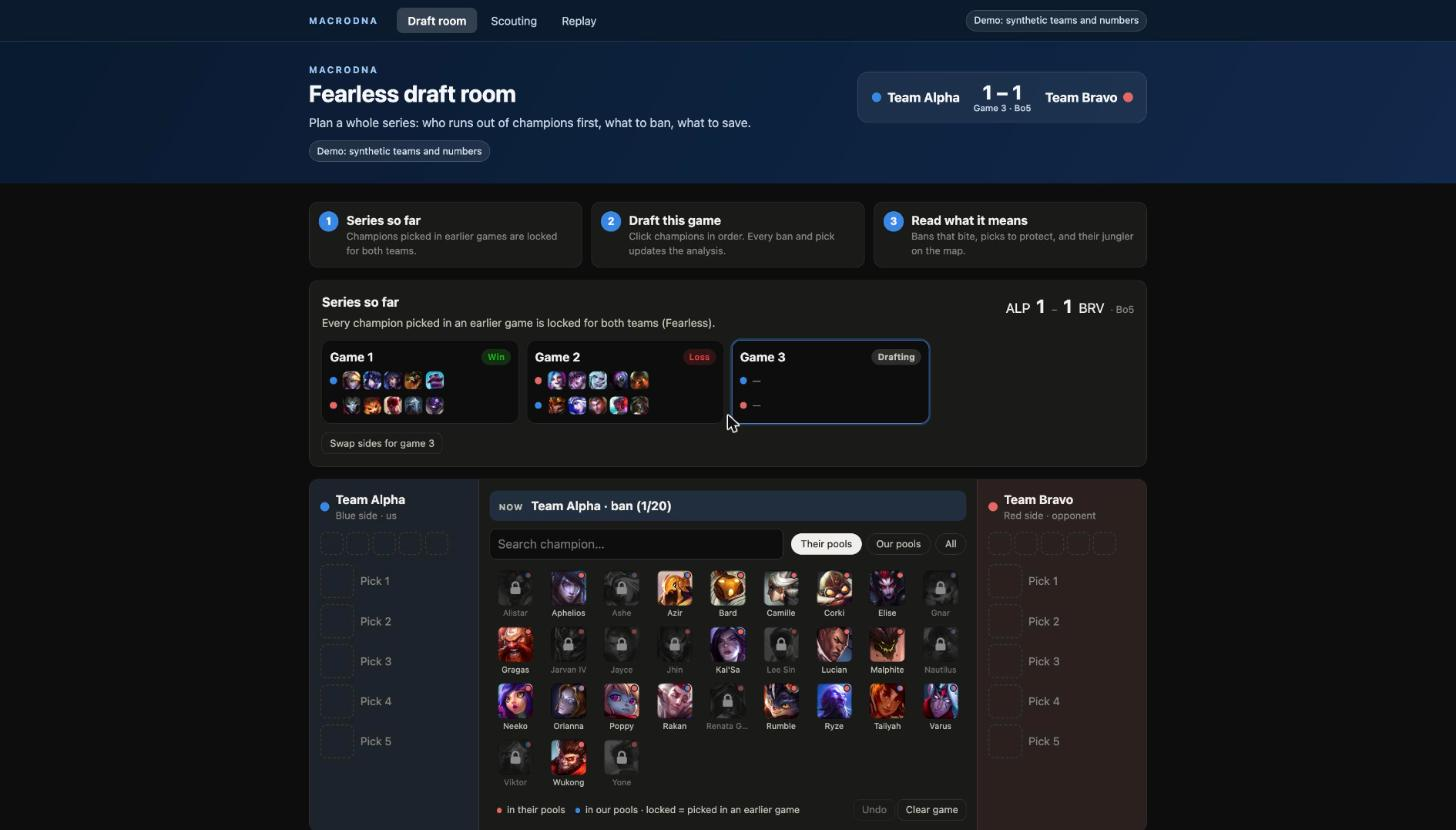
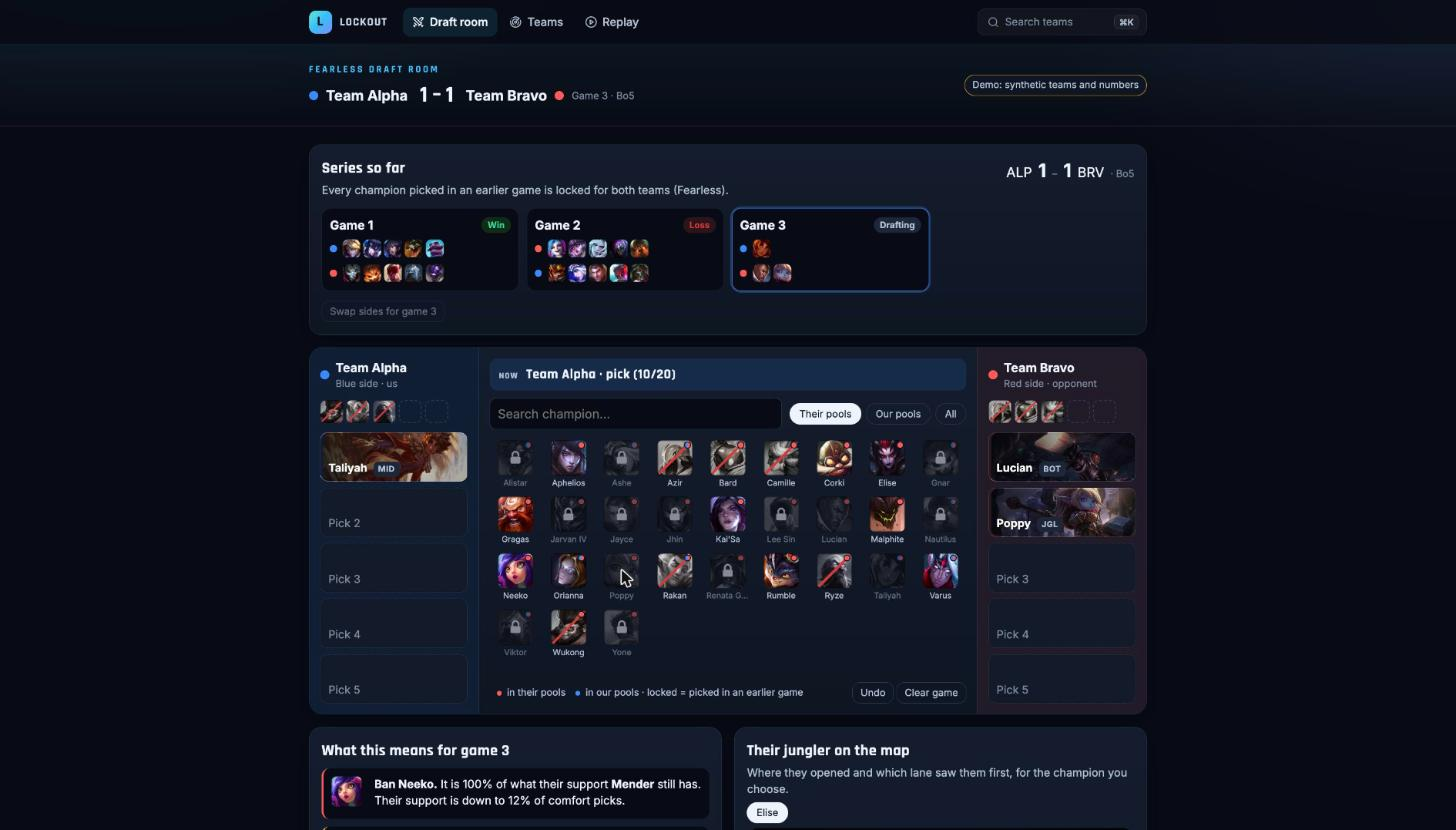
docs: fresh screenshots of the redesigned app on synthetic demo data
Home, Fearless draft room, team page and 3D replay, all on the built-in
invented teams; the outdated scouting screenshot is removed.

diff --git a/web/src/theme.css b/web/src/theme.css
@@ -105,7 +105,7 @@ button { border-radius: 10px; }
 /* team page */
 .pick-team { display: grid; gap: 14px; padding: 60px 0; text-align: center; }
 .pick-team h1 { font-size: 2.6rem; text-transform: uppercase; }
-.team-hero { position: relative; background: #0a1220 center 25% / cover no-repeat; border-bottom: 1px solid var(--ring); }
+.team-hero { position: relative; background: #0a1220 center 25% / cover no-repeat; border-bottom: 1px solid rgba(150, 190, 255, 0.06); }
 .team-hero-shade { position: absolute; inset: 0; background: linear-gradient(90deg, rgba(7, 11, 20, 0.97) 25%, rgba(7, 11, 20, 0.6) 65%, rgba(7, 11, 20, 0.85)), linear-gradient(0deg, var(--page), transparent 45%); }
 .team-hero-inner { position: relative; display: flex; align-items: center; gap: 22px; padding-top: 48px; padding-bottom: 28px; flex-wrap: wrap; }
 .team-hero-text h1 { font-size: clamp(2.2rem, 5vw, 3.6rem); line-height: 1; text-transform: uppercase; margin: 4px 0 8px; }

diff --git a/README.md b/README.md
@@ -16,9 +16,11 @@ Coaches track this in spreadsheets. Lockout reads the official GRID feeds (745 s
 Every number carries its sample size, and the backtest is reported as it came out, including what it does *not* show.
 See [docs/methodology.md](docs/methodology.md).
 
-| Draft room | Scouting and evidence | 2D replay |
+[![Lockout home: search the team you play next, over a 3D Summoner's Rift](docs/img/home.jpg)](docs/img/home.jpg)
+
+| Fearless draft room | Team page | 3D replay |
 |---|---|---|
-| [![Draft room](docs/img/draft-room.jpg)](docs/img/draft-room.jpg) | [![Scouting](docs/img/scouting.jpg)](docs/img/scouting.jpg) | [![Replay](docs/img/replay.jpg)](docs/img/replay.jpg) |
+| [![Draft room](docs/img/draft-room.jpg)](docs/img/draft-room.jpg) | [![Team page](docs/img/team.jpg)](docs/img/team.jpg) | [![Replay](docs/img/replay.jpg)](docs/img/replay.jpg) |
 
 *Screenshots show the built-in synthetic demo data: invented teams and numbers, nothing from the licensed data. The API's own documentation page is in [docs/img/api-docs.jpg](docs/img/api-docs.jpg).*
 
